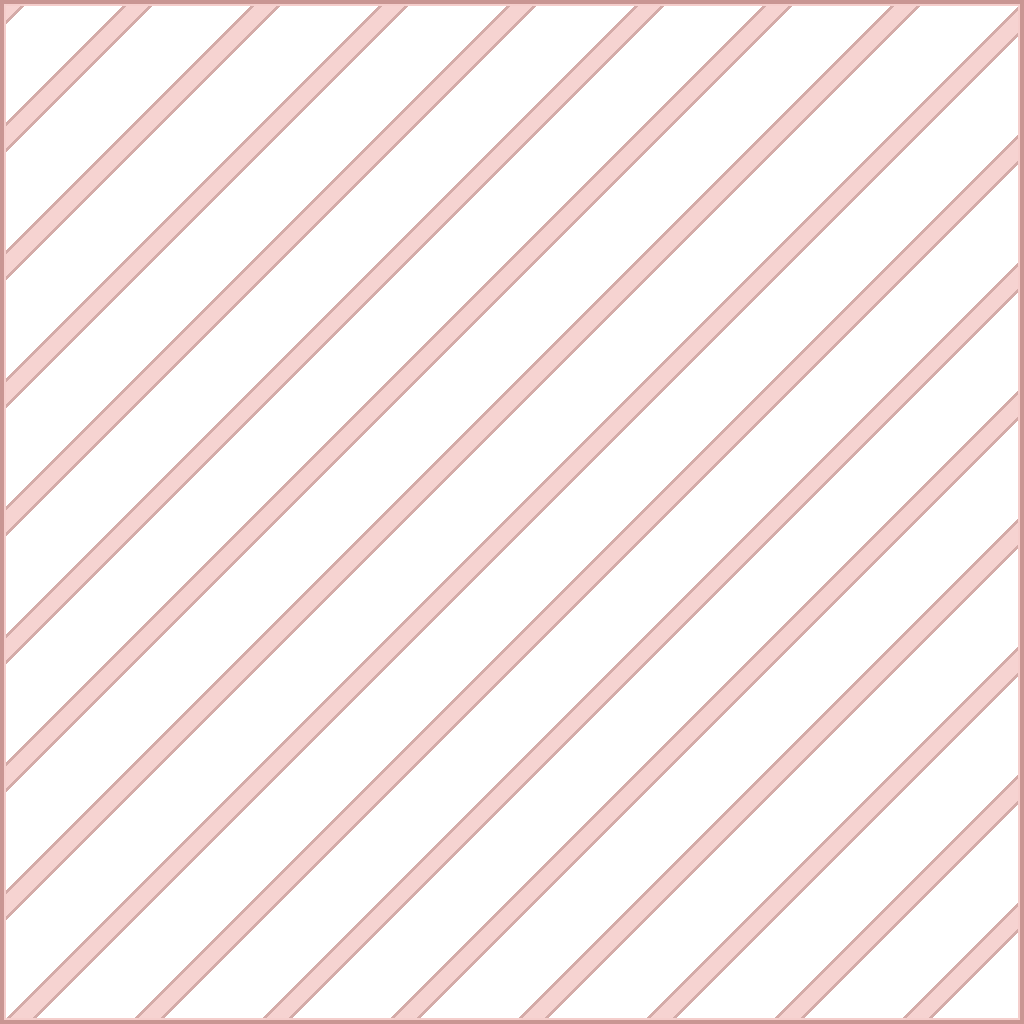
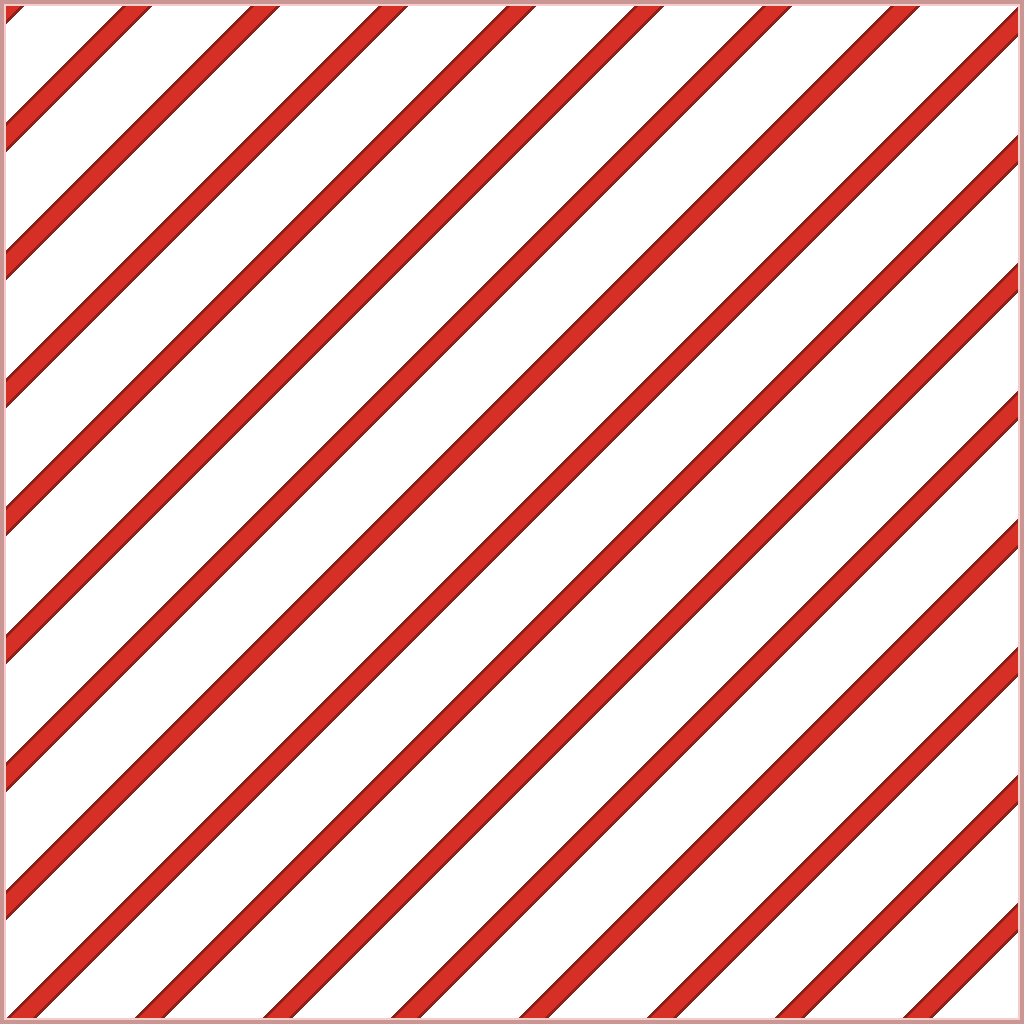
Chart overlays: fully opaque stripes - translucent warm colors shift olive
Playtest report: a residual "green tint" on map-view overlays. Not a
layer - arithmetic. Trail's orange at ~19% alpha (rampart's red at ~21%)
composited over the chart's dark grey-green terrain lands on olive, and
once zoom blurs the stripes together the whole territory reads as a
muddy green wash. The -chart variants now draw their stripes at full
opacity, keeping true hue at any zoom. World artwork stays translucent -
it sits on real ground, where the blend is the point.

diff --git a/tools/gen_overlays.py b/tools/gen_overlays.py
@@ -106,13 +106,16 @@ def main():
     for name, (color, dark, scale, opaque_ribbon) in STATES.items():
         make(name, color, dark, scale, opaque_ribbon)
     # Chart variants for the claimed states (drawn by scripts/render.lua in
-    # map view): identical stripes and cell border, but the between-stripes
-    # wash is fully transparent — on the chart the wash reads as a solid
-    # background block over the terrain (playtest report), while in the
-    # world it sits invisibly on actual ground.
+    # map view): same geometry, no between-stripes wash, and the stripes at
+    # FULL opacity. Both changes are playtest reports from the map: the
+    # wash reads as a solid background block, and translucent warm stripes
+    # composited over the chart's dark grey-green terrain shift olive — a
+    # "green tint" once zoom blurs them together. Opaque stripes keep their
+    # true hue at any zoom; the world artwork stays translucent because it
+    # sits on real ground.
     for name in ("trail", "rampart"):
-        color, dark, scale, opaque_ribbon = STATES[name]
-        make(name, color, dark, scale, opaque_ribbon, suffix="-chart", wash=False)
+        color, dark, scale, _ = STATES[name]
+        make(name, color, dark, scale, True, suffix="-chart", wash=False)
 
 
 if __name__ == "__main__":
